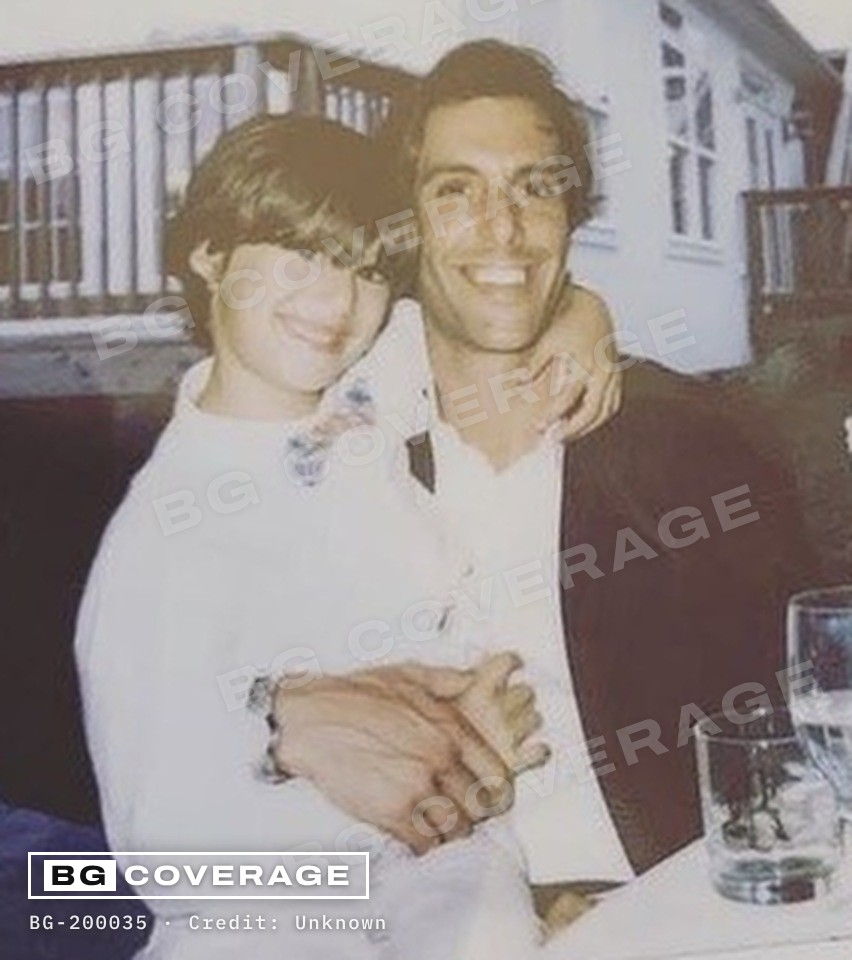
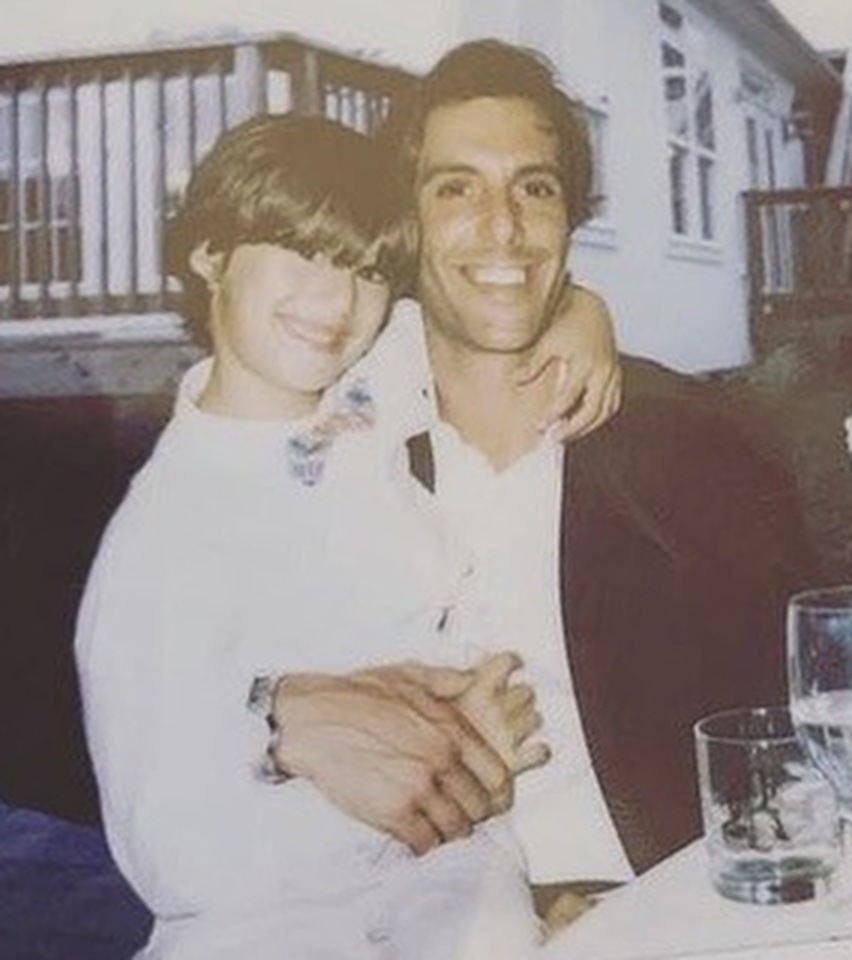
Photo pages: Jessica Lee on all JL Media photos; photo 5 unmarked at /ryder-ziman-2019 (old addresses redirect)
Claude-Session: https://claude.ai/code/session_01R4Yd9DXFZUHxv4JskfZizu

diff --git a/whop-site/server/index.js b/whop-site/server/index.js
@@ -6,7 +6,7 @@
 //
 // Clean addresses ask for the exact .html file FIRST: the host may answer any unknown address with the
 // home page (200), so "try the plain path, then .html on a 404" would show the home page for every link.
-const REDIRECTS = { '/bmedia/ryder-ziman': '/bppress/ryder-ziman', '/jlpress/ryder-ziman-5': '/bgcoverage/ryder-ziman', '/jlpress/ryder-ziman-4': '/jlpress/ryder-ziman-bm', '/gettyimage-ryder-ziman-1': '/jlpress/ryder-ziman-1', '/gettyimage-ryder-ziman-2': '/jlpress/ryder-ziman-2', '/gettyimage-ryder-ziman-4': '/jlpress/ryder-ziman-bm', '/gettyimage-ryder-ziman-5': '/bgcoverage/ryder-ziman', '/bmedia-ryder-ziman': '/bppress/ryder-ziman', '/ryder-ziman-1': '/jlpress/ryder-ziman-1', '/ryder-ziman-2': '/jlpress/ryder-ziman-2', '/ryder-ziman-3': '/bppress/ryder-ziman', '/gettyimage-ryder-ziman-3': '/bppress/ryder-ziman', '/ryder-ziman-5': '/jlpress/ryder-ziman-bm', '/ryder-ziman-7': '/bgcoverage/ryder-ziman', '/gettyimage-ryder-ziman-6': '/bgcoverage/ryder-ziman', '/images/ryder-ziman/ryder-ziman-7.jpg': '/images/ryder-ziman/ryder-ziman-5.jpg', '/images/ryder-ziman/ryder-ziman-6.jpg': '/images/ryder-ziman/ryder-ziman-5.jpg', '/fitness-sample': '/samples/ironpath', '/ironpath-app': '/samples/ironpath', '/rexkulman': '/about', '/samples/ashgrove': '/portfolio' };
+const REDIRECTS = { '/bgcoverage/ryder-ziman': '/ryder-ziman-2019', '/bmedia/ryder-ziman': '/bppress/ryder-ziman', '/jlpress/ryder-ziman-5': '/ryder-ziman-2019', '/jlpress/ryder-ziman-4': '/jlpress/ryder-ziman-bm', '/gettyimage-ryder-ziman-1': '/jlpress/ryder-ziman-1', '/gettyimage-ryder-ziman-2': '/jlpress/ryder-ziman-2', '/gettyimage-ryder-ziman-4': '/jlpress/ryder-ziman-bm', '/gettyimage-ryder-ziman-5': '/ryder-ziman-2019', '/bmedia-ryder-ziman': '/bppress/ryder-ziman', '/ryder-ziman-1': '/jlpress/ryder-ziman-1', '/ryder-ziman-2': '/jlpress/ryder-ziman-2', '/ryder-ziman-3': '/bppress/ryder-ziman', '/gettyimage-ryder-ziman-3': '/bppress/ryder-ziman', '/ryder-ziman-5': '/jlpress/ryder-ziman-bm', '/ryder-ziman-7': '/ryder-ziman-2019', '/gettyimage-ryder-ziman-6': '/ryder-ziman-2019', '/images/ryder-ziman/ryder-ziman-7.jpg': '/images/ryder-ziman/ryder-ziman-5.jpg', '/images/ryder-ziman/ryder-ziman-6.jpg': '/images/ryder-ziman/ryder-ziman-5.jpg', '/fitness-sample': '/samples/ironpath', '/ironpath-app': '/samples/ironpath', '/rexkulman': '/about', '/samples/ashgrove': '/portfolio' };
 
 const GONE = new Set(['/ryder-ziman-4', '/ryder-ziman-4.html', '/gettyimage-ryder-ziman-5-feat-maxim-zhukovski', '/gettyimage-ryder-ziman-5-feat-maxim-zhukovski.html',
   '/ryder-ziman-6-feat-maxim-zhukovski', '/images/ryder-ziman/ryder-ziman-5-feat-maxim-zhukovski.jpg', '/images/ryder-ziman/ryder-ziman-6-feat-maxim-zhukovski.jpg']);

diff --git a/clients/photo-originals/make-watermarks.js b/clients/photo-originals/make-watermarks.js
@@ -2,8 +2,8 @@
 //   JL Media (1, 2, 4): corner logo + one big faint name   ·   BP Press (3): tiled diagonally across the photo   ·   BG Coverage (5): five slanted faint names
 const { chromium } = require('playwright'); const fs = require('fs');
 const R = '/home/user/kulmanzimanwebsiterepo';
-const P = [['ryder-ziman-1', 'R.J.C.', 'jl'], ['ryder-ziman-2', 'R.J.C.', 'jl'], ['ryder-ziman-3', 'Unknown', 'ss'], ['ryder-ziman-4', 'Jessica Lee', 'jl'],
-           ['ryder-ziman-5', 'Unknown', 'bg']];   // the Maxim photo was taken down; the instant photo (cropped to Ryder and his dad) is 5
+const P = [['ryder-ziman-1', 'Jessica Lee', 'jl'], ['ryder-ziman-2', 'Jessica Lee', 'jl'], ['ryder-ziman-3', 'Unknown', 'ss'], ['ryder-ziman-4', 'Jessica Lee', 'jl'],
+           ['ryder-ziman-5', 'Unknown', 'none']];   // the Maxim photo was taken down; the instant photo (cropped to Ryder and his dad) is 5
 const NUM = {"ryder-ziman-1": "583324", "ryder-ziman-2": "220100", "ryder-ziman-3": "869692", "ryder-ziman-4": "918102", "ryder-ziman-5": "200035"};
 const PREFIX = { jl: 'JL-', ss: 'BP-', bg: 'BG-' };
 (async () => { const b = await chromium.launch();
@@ -11,6 +11,7 @@ const PREFIX = { jl: 'JL-', ss: 'BP-', bg: 'BG-' };
     const src = `${R}/clients/photo-originals/${n}.jpg`; const { execSync } = require('child_process');
     const [w, h] = execSync(`python3 -c "from PIL import Image;print(*Image.open('${src}').size)"`).toString().trim().split(' ').map(Number);
     const u = Math.max(w, h * 1.2) / 900;   // scale everything to the photo
+    if (st === 'none') { fs.copyFileSync(src, `${R}/static/images/ryder-ziman/${n}.jpg`); console.log(n, 'no mark'); continue; }   // photo 5 has no mark (Nov 28)
     const id = PREFIX[st] + NUM[n];   // random-looking photo IDs (fixed, so re-running gives the same ones)
     const px = v => Math.round(v * u) + 'px';
     const marks = {

diff --git a/build.py b/build.py
@@ -287,8 +287,8 @@ SIDE_LOCK = ("<style>html{overflow-x:hidden}"
 
 
 PHOTOS = [   # (page and file name, description, width, height, photo credit): files in static/images/ryder-ziman/
-    ("ryder-ziman-1", "Ryder Ziman speaking at a podium", 840, 468, "R.J.C."),
-    ("ryder-ziman-2", "Ryder Ziman in a navy suit", 296, 470, "R.J.C."),
+    ("ryder-ziman-1", "Ryder Ziman speaking at a podium", 840, 468, "Jessica Lee"),
+    ("ryder-ziman-2", "Ryder Ziman in a navy suit", 296, 470, "Jessica Lee"),
     ("ryder-ziman-3", "Ryder Ziman smiling", 318, 390, "Unknown"),
     ("ryder-ziman-4", "Ryder Ziman lifted on a chair at a celebration", 1600, 1066, "Jessica Lee"),
     ("ryder-ziman-5", "Instant photo of Ryder Ziman", 852, 960, "Unknown"),
@@ -306,7 +306,7 @@ SNAP = [   # search-snippet lines, one per photo page, in order (a paparazzi fee
 
 
 PAGE_PREFIX = "jlpress/"   # Ryder chose this page address prefix (Nov 28): /jlpress/ryder-ziman-N
-PAGE_PATH = {"ryder-ziman-3": "bppress/ryder-ziman", "ryder-ziman-4": "jlpress/ryder-ziman-bm", "ryder-ziman-5": "bgcoverage/ryder-ziman"}   # bm = bar mitzvah   # photos with their own page address
+PAGE_PATH = {"ryder-ziman-3": "bppress/ryder-ziman", "ryder-ziman-4": "jlpress/ryder-ziman-bm", "ryder-ziman-5": "ryder-ziman-2019"}   # bm = bar mitzvah   # photos with their own page address
 
 def page_path(slug):
     return PAGE_PATH.get(slug, PAGE_PREFIX + slug)

diff --git a/MEMORY.md b/MEMORY.md
@@ -52,7 +52,7 @@ Last updated: Nov 27, 2026 (after v298).
    npm install
    whop apps deploy --app app_JdRDs81kkoj3CZ
    ```
-- **Latest version: v329.**
+- **Latest version: v330.**
 
 ## The site (mono theme)
 - **Pages:** Home, Pricing (products), About, Portfolio, Affiliates, Help, Legal, Get Started, Ryder Ziman (/ryderziman).
@@ -67,12 +67,12 @@ Last updated: Nov 27, 2026 (after v298).
 - **Profile page (/ryderziman), Nov 27:** flip business card (photo front; back has email, LinkedIn, "Save contact" = /ryder-ziman.vcf),
   signature that writes itself, "The story so far" timeline (dates from git history: Aug 24 Kulman Ziman live, Nov 5 first samples (the redo with Claude),
   Nov 12 rebrand, Nov 20 Sports Culture, six demos, now, next), and the six demos as live cards. Timeline class is .rz-tl (.timeline is taken); the card is .rzf (.flip is taken by the product flip cards in site.js).
-- **Photo pages for Google Images (Nov 28):** five pages: /jlpress/ryder-ziman-1, -2, -bm (chair / bar mitzvah), /bppress/ryder-ziman (photo 3), /bgcoverage/ryder-ziman (photo 5) (podium, navy suit, smiling, chair, instant photo).
+- **Photo pages for Google Images (Nov 28):** five pages: /jlpress/ryder-ziman-1, -2, -bm (chair / bar mitzvah), /bppress/ryder-ziman (photo 3), /ryder-ziman-2019 (photo 5, Ryder and his dad, no mark) (podium, navy suit, smiling, chair, instant photo).
   - Taken down: old photo 4 and the photo with Maxim (files in clients/removed-photos; their addresses answer 410). Older addresses 301 to the new ones (whop-site/server/index.js).
-  - Marks (clients/photo-originals/make-watermarks.js): "JL Media" on 1, 2, 4; "BP Press" tiled diagonally across photo 3 (design B) ; "BG Coverage" five slanted names on 5 (cropped to Ryder and his dad).
+  - Marks (clients/photo-originals/make-watermarks.js): "JL Media" on 1, 2, 4; "BP Press" tiled diagonally across photo 3 (design B) . Photo 5 has no mark.
   - Photo IDs are fixed random numbers (NUM in make-watermarks.js).
   - Ryder asked for "BFA Coverage" on 5; declined (BFA = Billy Farrell Agency, a real event-photo agency).
-  - Fake "404" look, titles "Ziman, Ryder" (1, 2 and 5: "Ziman, Ryder: son of Michael Ziman"), credits: "R.J.C." on 1 and 2, "Jessica Lee" on the chair photo (4), "Unknown" on 3 and 5.
+  - Fake "404" look, titles "Ziman, Ryder" (1, 2 and 5: "Ziman, Ryder: son of Michael Ziman"), credits: "Jessica Lee" on every JL Media photo (1, 2, 4), "Unknown" on 3 and 5.
   - Photos carry a burned-in "JL Press" mark (Ryder's choice, style 5): corner logo, faint big name, "JL-00000N · Credit: ...". Clean originals + script in clients/photo-originals (make-watermarks.js).
   - Ryder asked for a visible Getty Images tag; declined (real company's branding on photos it doesn't own). The URL prefix was his call after a warning.
 - **PageSpeed (Nov 26):**
